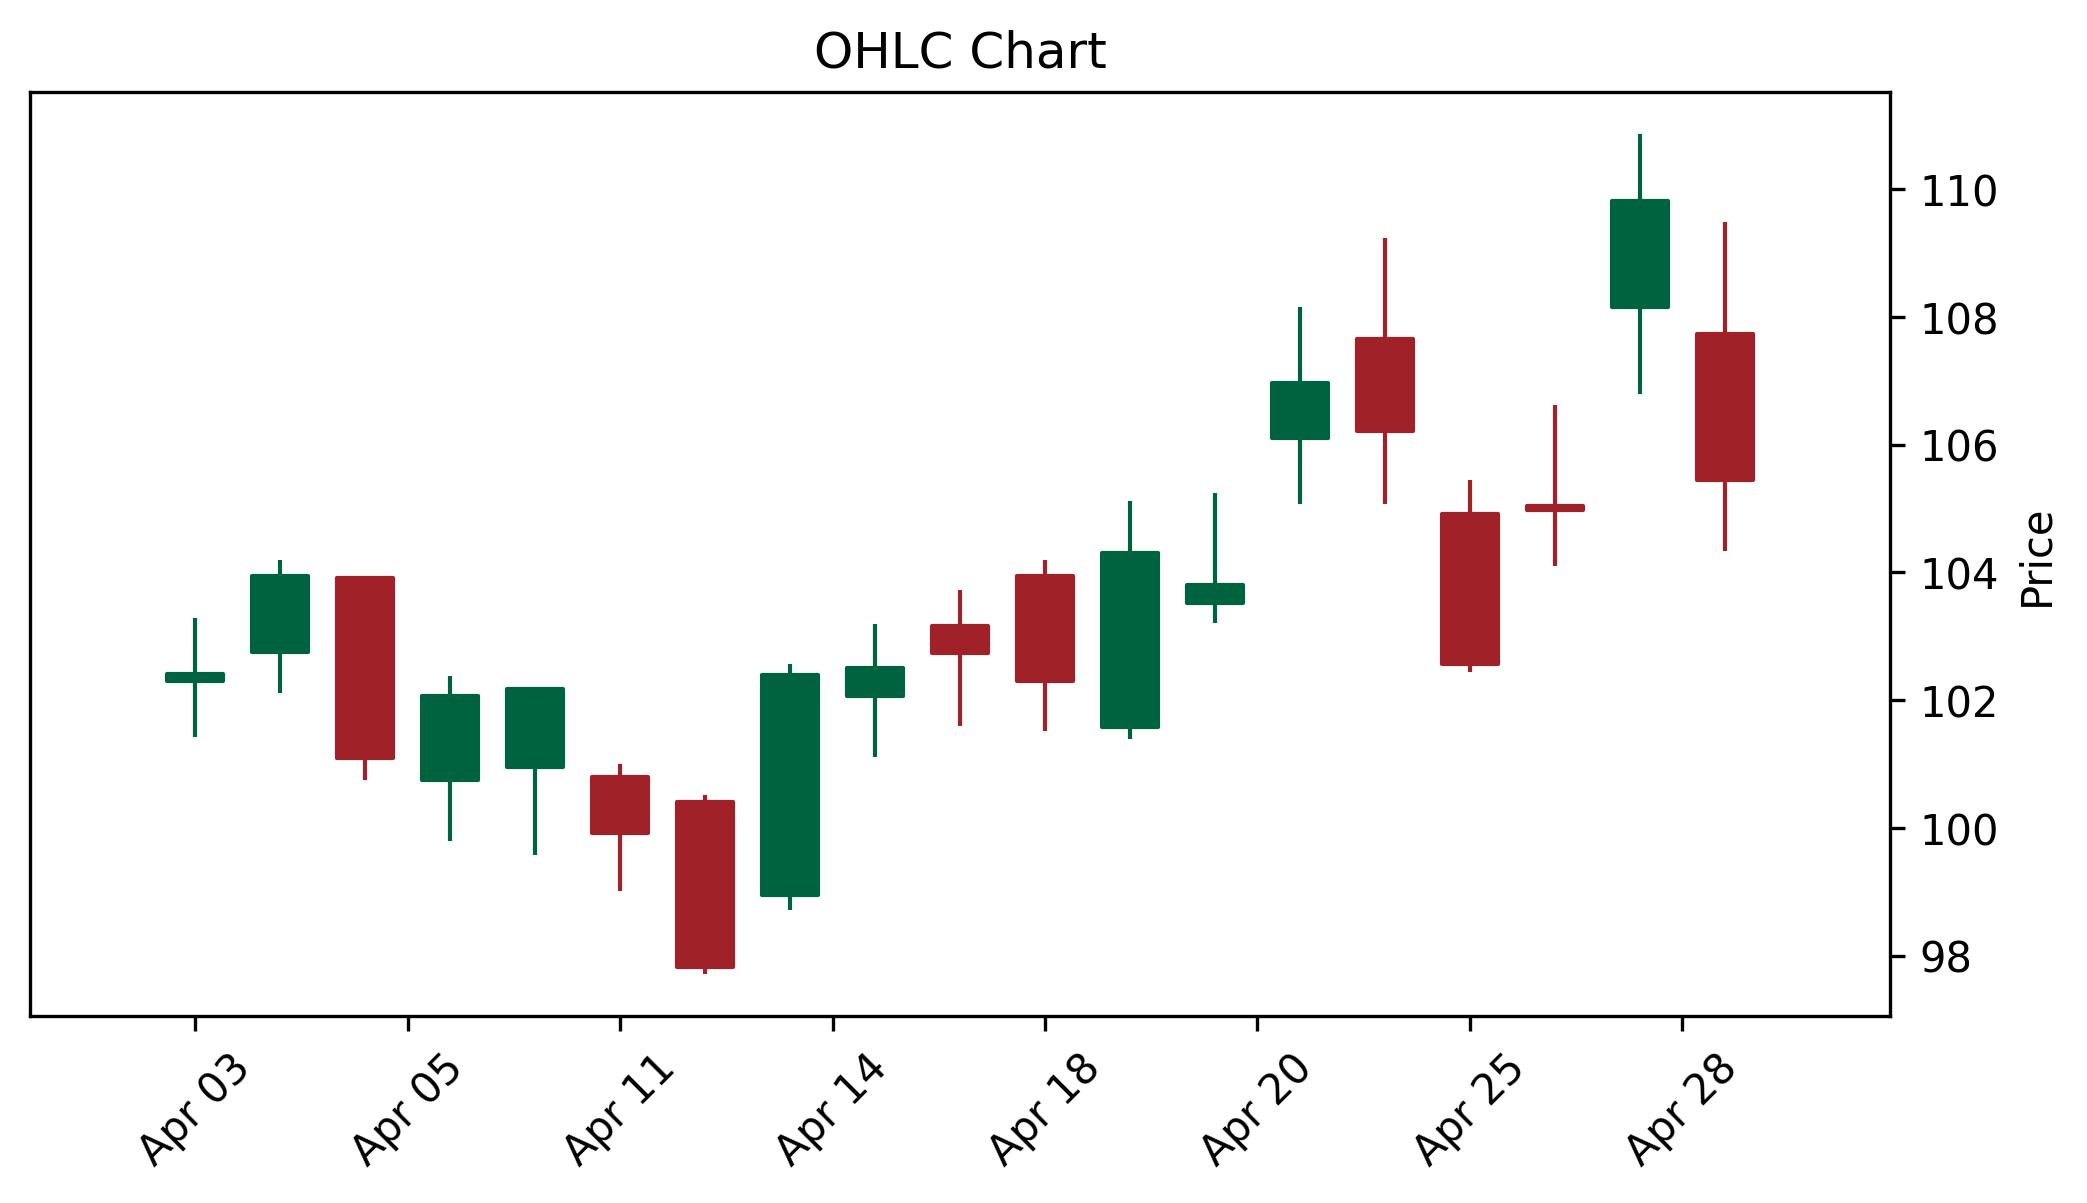
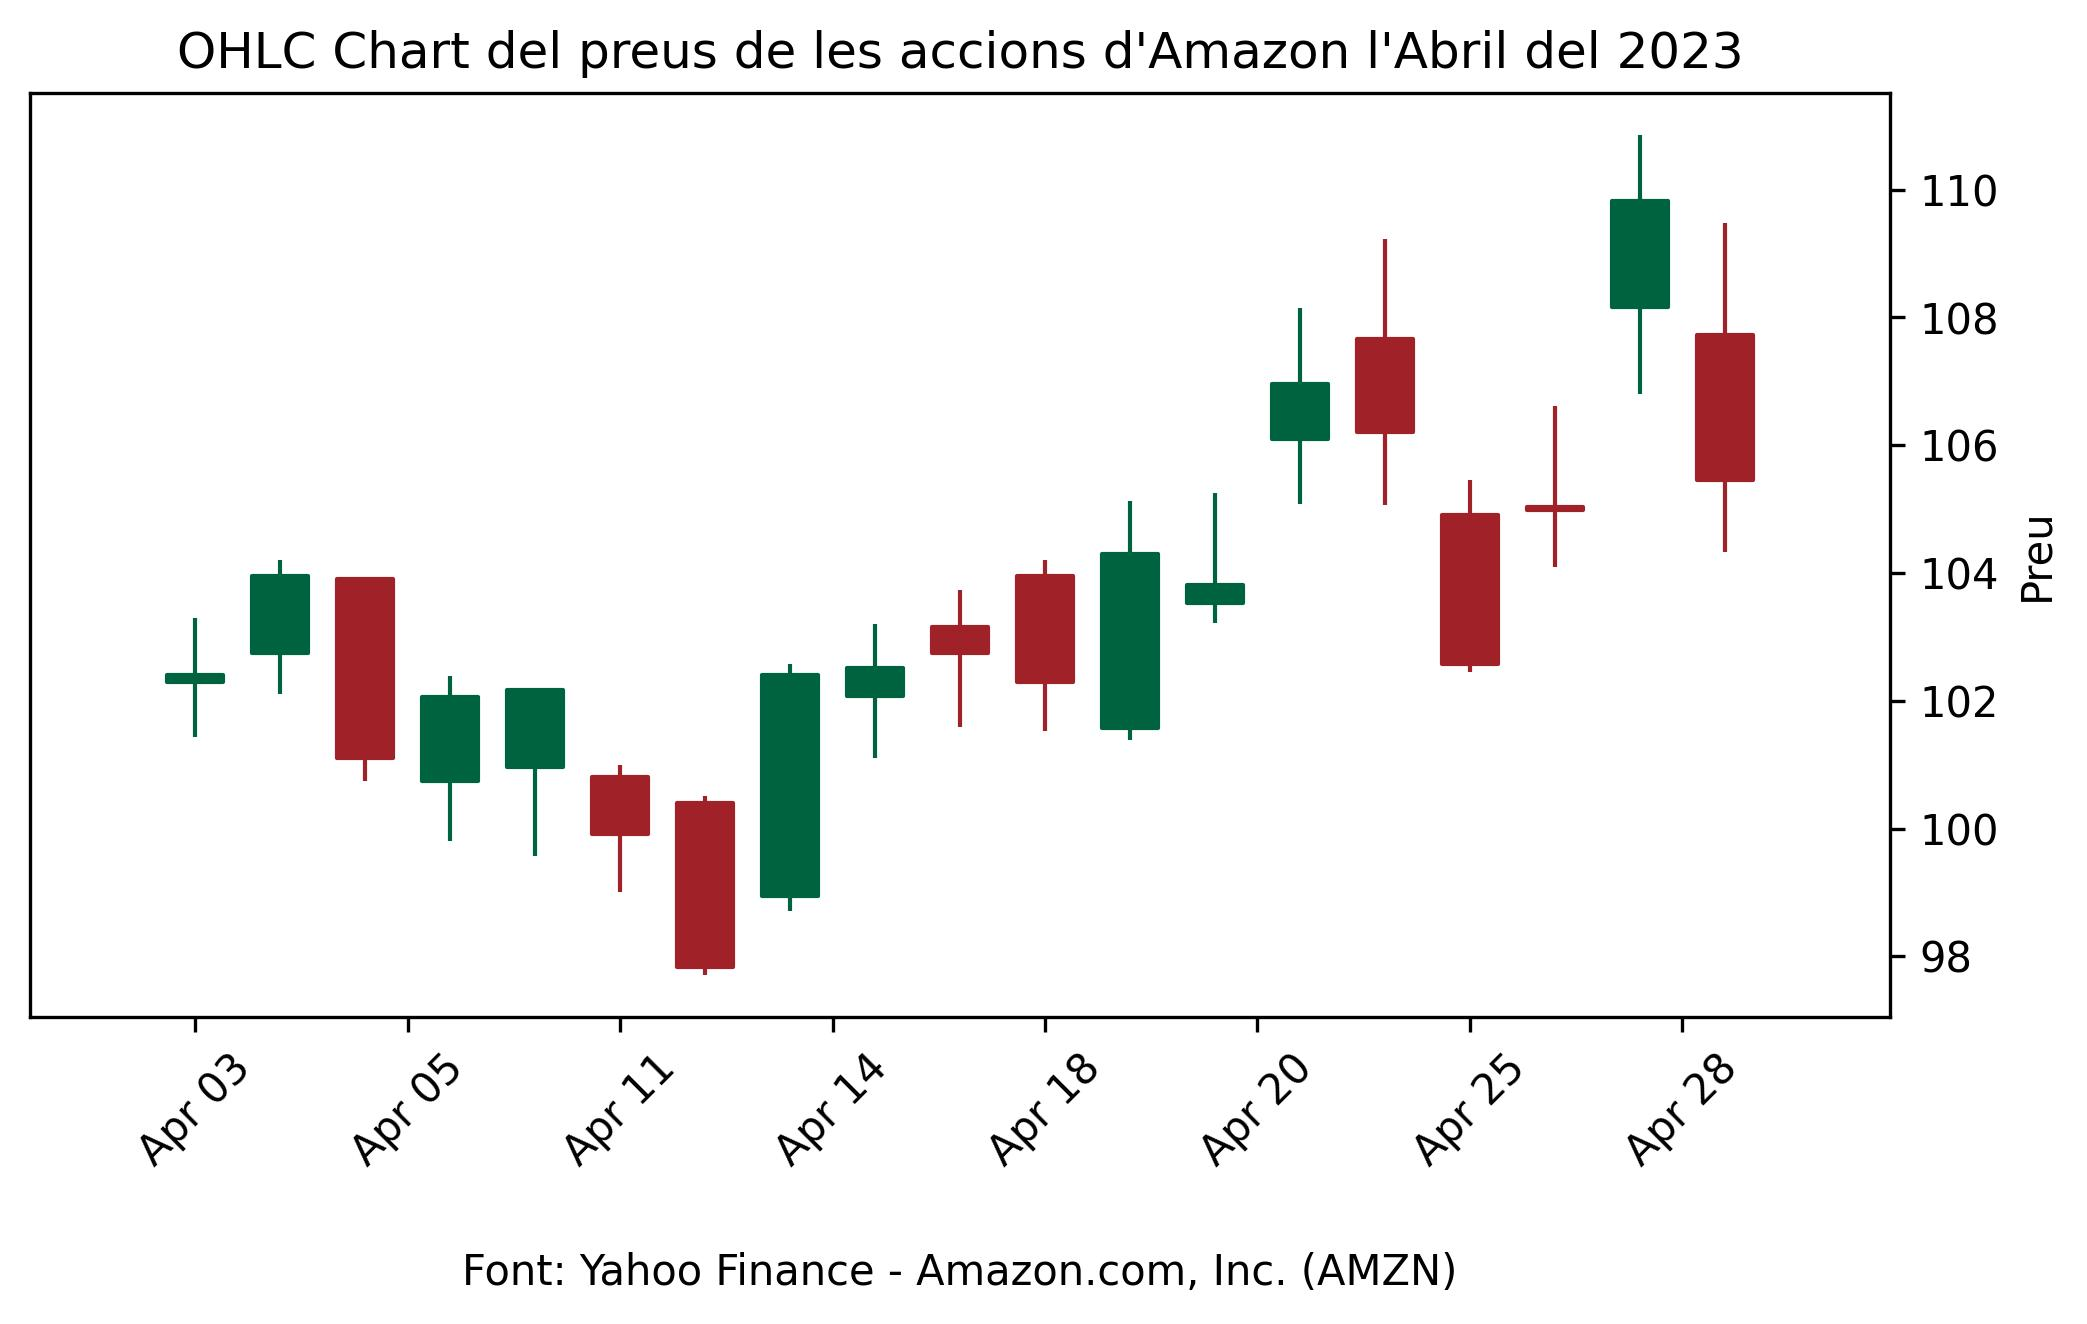
added source to ohlc

diff --git a/visualizations/src/ohlc-chart.py b/visualizations/src/ohlc-chart.py
@@ -15,7 +15,7 @@ ax.set_title('OHLC Chart del preus de les accions d\'Amazon l\'Abril del 2023')
 ax.set_ylabel('Dates')
 ax.set_ylabel('Preu')
 
-ax.text(0.5, -0.25, 'Font: Yahoo Finance - \nAmazon.com, Inc. (AMZN)', ha='center', va='bottom', transform=plt.gca().transAxes)
+ax.text(0.5, -0.3, 'Font: Yahoo Finance - Amazon.com, Inc. (AMZN)', ha='center', va='bottom', transform=plt.gca().transAxes)
 
 fig.set_size_inches(8, 4)
 plt.savefig('../images/ohlc-chart.jpg', dpi=300, bbox_inches='tight')
